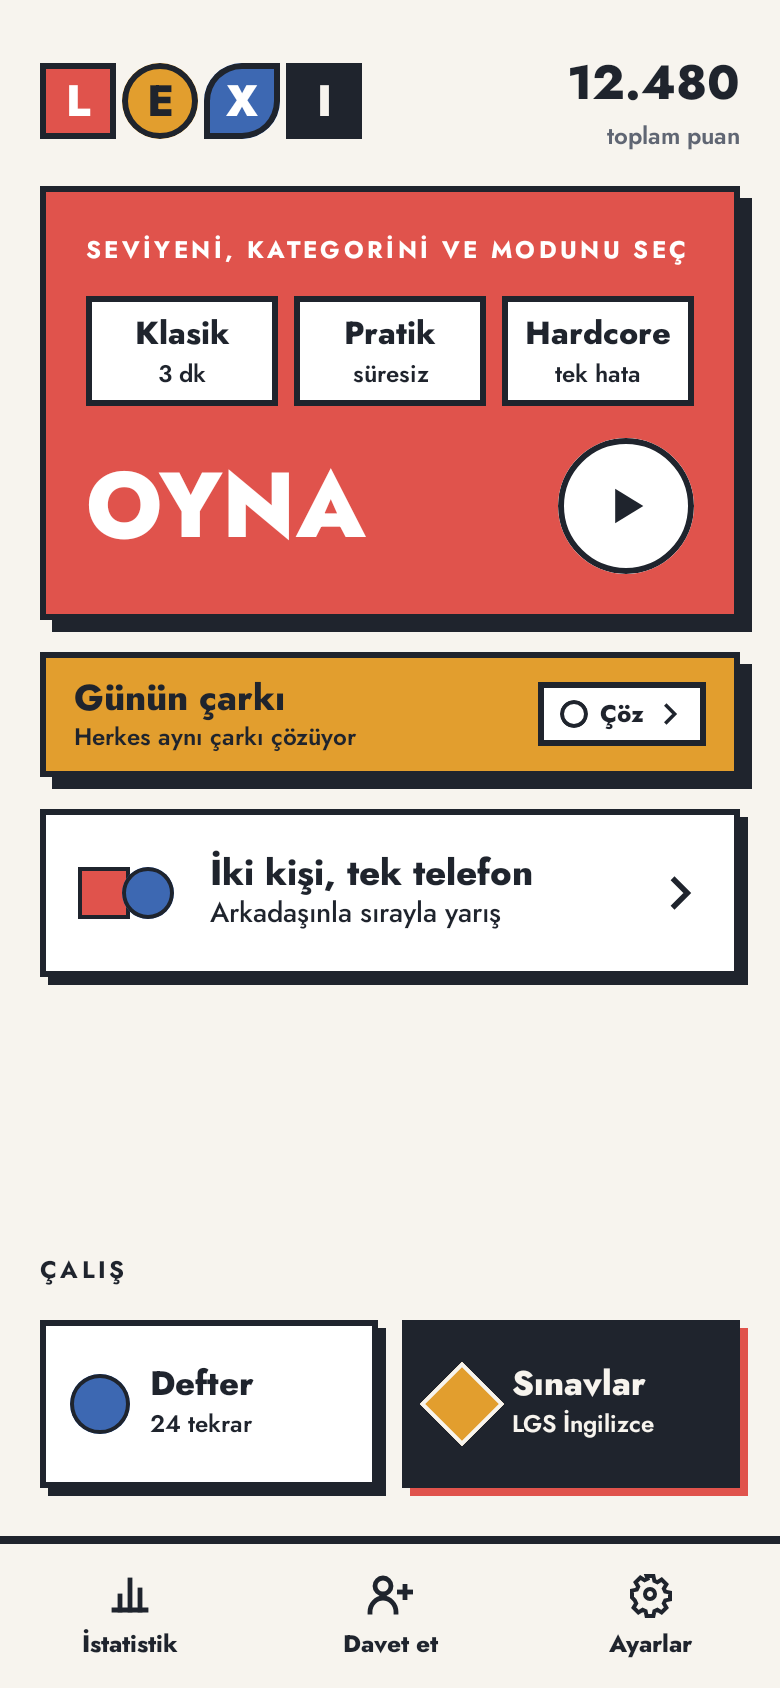
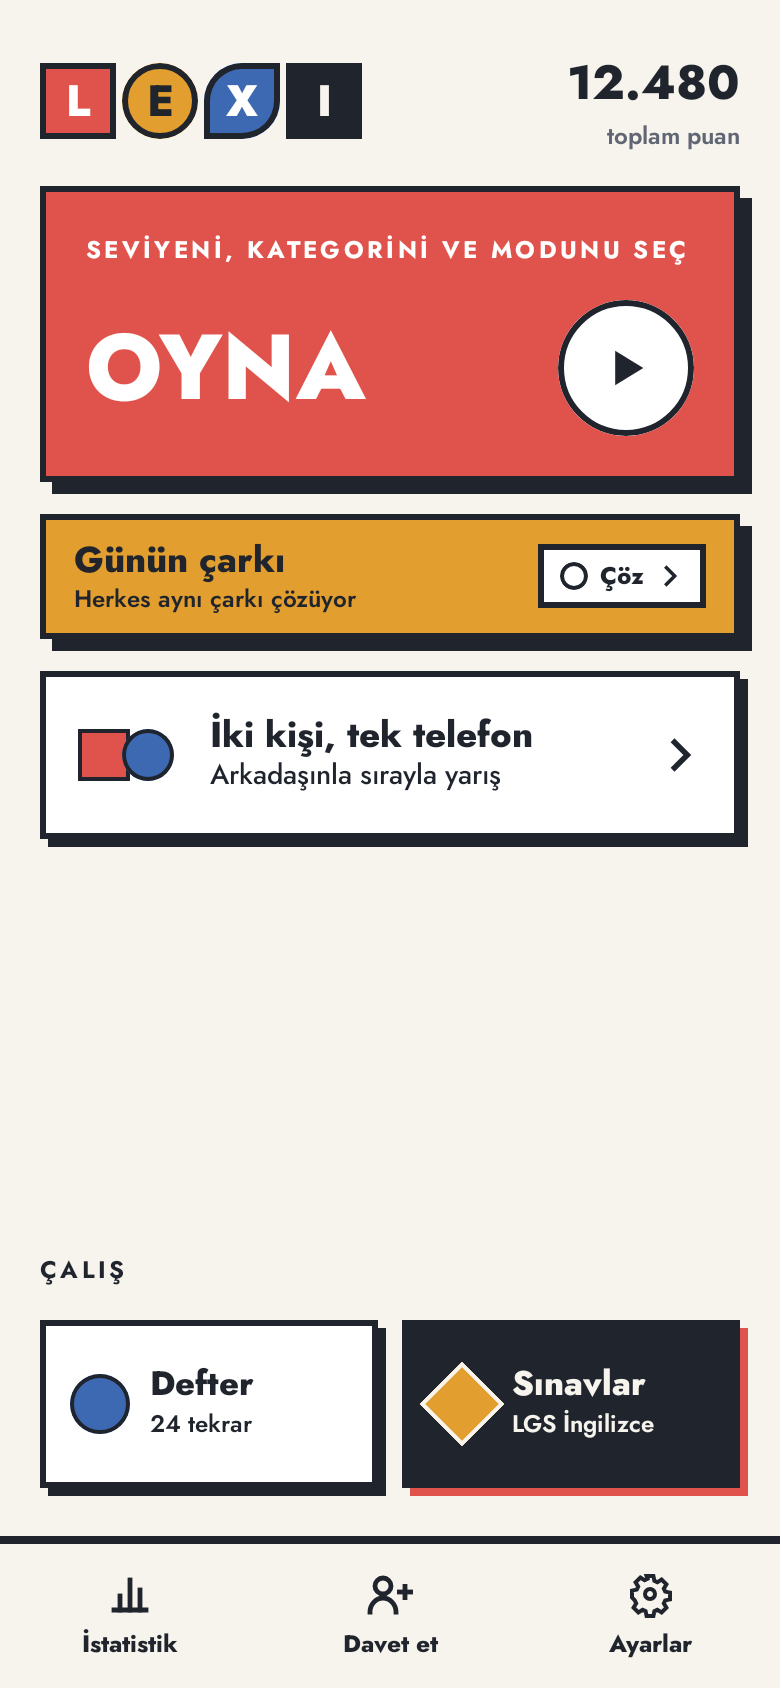
feat(home): drop the three mode boxes from the red play card
Owner-approved design change: the card keeps the label and "OYNA" with the
play icon; mode and time are chosen in the dialog after a category tap.
Removes PlayCardMode, the home_mode_* strings (TR + EN), the mode sentence of
the card's content description and HomeUiState.classicTimeLimitSeconds, which
only fed the removed boxes. OYNA still opens the category picker.

Home and FlowComponents goldens change and are recorded on Linux CI.

Changed region(s): [[0.0308, 0.154, 0.9846, 0.5853]]

diff --git a/core/designsystem/src/commonMain/kotlin/dev/talhabayhan/lexi/core/designsystem/component/FlowComponents.kt b/core/designsystem/src/commonMain/kotlin/dev/talhabayhan/lexi/core/designsystem/component/FlowComponents.kt
@@ -83,10 +83,7 @@ public object FlowDefaults {
 
     /** Play card: padding 20, label → mode boxes 14, mode boxes → OYNA row 16, boxes 8 apart, play circle 68. */
     public val PlayCardPadding: Dp = 20.dp
-    internal val PlayCardLabelGap: Dp = 14.dp
     internal val PlayCardRowGap: Dp = 16.dp
-    internal val ModeBoxGap: Dp = 8.dp
-    internal val ModeBoxPadding: PaddingValues = PaddingValues(horizontal = 6.dp, vertical = 4.dp)
     public val PlayCircleSize: Dp = 68.dp
     internal val PlayIconSize: Dp = 26.dp
 
@@ -178,19 +175,15 @@ public fun FitLine(text: String, style: TextStyle, color: Color, modifier: Modif
     )
 }
 
-/** One informational mode box of the play card: "Klasik" over "3 dk". */
-@Immutable
-public data class PlayCardMode(val title: String, val caption: String)
-
 /**
- * Home's play card (`home_v5.png`): red, 3dp ink frame, s6. Top [label] ("SEVİYENİ, KATEGORİNİ VE MODUNU SEÇ"), the
- * three informational [modes] (not tappable), then [playLabel] ("OYNA") left and a round play icon right. The whole
- * card is one button, read as [contentDescription].
+ * Home's play card (`home_v5.png`, simplified by the owner in S8: the three mode boxes are gone, mode and time are
+ * chosen in the dialog after a category tap): red, 3dp ink frame, s6. Top [label] ("SEVİYENİ, KATEGORİNİ VE MODUNU
+ * SEÇ"), then [playLabel] ("OYNA") left and a round play icon right. The whole card is one button, read as
+ * [contentDescription].
  */
 @Composable
 public fun PlayCard(
     label: String,
-    modes: List<PlayCardMode>,
     playLabel: String,
     contentDescription: String,
     onClick: () -> Unit,
@@ -205,43 +198,16 @@ public fun PlayCard(
     ) {
         // All of the card's text is control text (also spoken through [contentDescription]): capped, so OYNA stays on
         // the first screen of a 320 × 568 phone at 200 % font size.
-        WithCappedFontScale(FlowDefaults.CONTROL_FONT_SCALE_CAP) { PlayCardContent(label, modes, playLabel) }
+        WithCappedFontScale(FlowDefaults.CONTROL_FONT_SCALE_CAP) { PlayCardContent(label, playLabel) }
     }
 }
 
 @Composable
-private fun PlayCardContent(label: String, modes: List<PlayCardMode>, playLabel: String) {
+private fun PlayCardContent(label: String, playLabel: String) {
     val colors = LexiTheme.colors
     val typography = LexiTheme.typography
     Column(Modifier.fillMaxWidth().clearAndSetSemantics {}.padding(FlowDefaults.PlayCardPadding)) {
         WordSafeText(label, typography.label12, colors.white)
-        Row(
-            modifier = Modifier.fillMaxWidth().padding(top = FlowDefaults.PlayCardLabelGap)
-                .height(IntrinsicSize.Min),
-            horizontalArrangement = Arrangement.spacedBy(FlowDefaults.ModeBoxGap),
-        ) {
-            modes.forEach { mode ->
-                Column(
-                    modifier = Modifier
-                        .weight(1f)
-                        .fillMaxHeight()
-                        .lexiSurface(colors.white, BorderStroke(LexiTheme.borders.regular, colors.ink))
-                        .padding(FlowDefaults.ModeBoxPadding),
-                    horizontalAlignment = Alignment.CenterHorizontally,
-                    verticalArrangement = Arrangement.Center,
-                ) {
-                    FitLine(mode.title, typography.bodyStrong16, colors.ink)
-                    // A caption too wide for its box ("one mistake" on a 320dp phone) wraps between its words.
-                    WordSafeText(
-                        mode.caption,
-                        typography.caption12SemiBold,
-                        colors.ink,
-                        maxLines = 2,
-                        textAlign = TextAlign.Center,
-                    )
-                }
-            }
-        }
         Row(
             modifier = Modifier.fillMaxWidth().padding(top = FlowDefaults.PlayCardRowGap),
             verticalAlignment = Alignment.CenterVertically,
@@ -819,11 +785,6 @@ private fun FlowComponentsPreview() {
         ) {
             PlayCard(
                 label = "SEVİYENİ, KATEGORİNİ VE MODUNU SEÇ",
-                modes = listOf(
-                    PlayCardMode("Klasik", "3 dk"),
-                    PlayCardMode("Pratik", "süresiz"),
-                    PlayCardMode("Hardcore", "tek hata"),
-                ),
                 playLabel = "OYNA",
                 contentDescription = "Oyna",
                 onClick = {},

diff --git a/feature/home/src/commonMain/kotlin/dev/talhabayhan/lexi/feature/home/HomeScreen.kt b/feature/home/src/commonMain/kotlin/dev/talhabayhan/lexi/feature/home/HomeScreen.kt
@@ -63,7 +63,6 @@ import dev.talhabayhan.lexi.core.designsystem.component.FlowDefaults
 import dev.talhabayhan.lexi.core.designsystem.component.LexiLogo
 import dev.talhabayhan.lexi.core.designsystem.component.LexiLogoSize
 import dev.talhabayhan.lexi.core.designsystem.component.PlayCard
-import dev.talhabayhan.lexi.core.designsystem.component.PlayCardMode
 import dev.talhabayhan.lexi.core.designsystem.component.RuledBottomBar
 import dev.talhabayhan.lexi.core.designsystem.component.SlidingToast
 import dev.talhabayhan.lexi.core.designsystem.component.StudyTile
@@ -93,12 +92,6 @@ import dev.talhabayhan.lexi.feature.home.generated.resources.home_invite_message
 import dev.talhabayhan.lexi.feature.home.generated.resources.home_joker_gift_combined
 import dev.talhabayhan.lexi.feature.home.generated.resources.home_joker_gift_daily
 import dev.talhabayhan.lexi.feature.home.generated.resources.home_joker_gift_streak
-import dev.talhabayhan.lexi.feature.home.generated.resources.home_mode_classic
-import dev.talhabayhan.lexi.feature.home.generated.resources.home_mode_classic_caption
-import dev.talhabayhan.lexi.feature.home.generated.resources.home_mode_hardcore
-import dev.talhabayhan.lexi.feature.home.generated.resources.home_mode_hardcore_caption
-import dev.talhabayhan.lexi.feature.home.generated.resources.home_mode_practice
-import dev.talhabayhan.lexi.feature.home.generated.resources.home_mode_practice_caption
 import dev.talhabayhan.lexi.feature.home.generated.resources.home_notice_dismiss
 import dev.talhabayhan.lexi.feature.home.generated.resources.home_play
 import dev.talhabayhan.lexi.feature.home.generated.resources.home_play_description
@@ -170,22 +163,8 @@ internal fun HomeScreen(
                     Header(state.totalScore)
                     PlayCard(
                         label = stringResource(Res.string.home_play_label),
-                        modes = listOf(
-                            PlayCardMode(
-                                stringResource(Res.string.home_mode_classic),
-                                stringResource(Res.string.home_mode_classic_caption, state.classicMinutes),
-                            ),
-                            PlayCardMode(
-                                stringResource(Res.string.home_mode_practice),
-                                stringResource(Res.string.home_mode_practice_caption),
-                            ),
-                            PlayCardMode(
-                                stringResource(Res.string.home_mode_hardcore),
-                                stringResource(Res.string.home_mode_hardcore_caption),
-                            ),
-                        ),
                         playLabel = stringResource(Res.string.home_play),
-                        contentDescription = stringResource(Res.string.home_play_description, state.classicMinutes),
+                        contentDescription = stringResource(Res.string.home_play_description),
                         onClick = { onIntent(HomeIntent.Play) },
                     )
                     DailyCard(state.dailyState, onOpen = { onIntent(HomeIntent.OpenDaily) })
@@ -257,10 +236,6 @@ internal fun HomeScreen(
         }
     }
 }
-
-private val HomeUiState.classicMinutes: Int get() = classicTimeLimitSeconds / SECONDS_PER_MINUTE
-
-private const val SECONDS_PER_MINUTE = 60
 
 /**
  * Logo left, total points right ("12.480" over "toplam puan"); the points are one node read with their label. The

diff --git a/feature/home/src/commonMain/kotlin/dev/talhabayhan/lexi/feature/home/HomeContract.kt b/feature/home/src/commonMain/kotlin/dev/talhabayhan/lexi/feature/home/HomeContract.kt
@@ -2,7 +2,6 @@ package dev.talhabayhan.lexi.feature.home
 
 import androidx.compose.runtime.Immutable
 import dev.talhabayhan.lexi.core.domain.model.Level
-import dev.talhabayhan.lexi.core.domain.settings.Settings
 
 /**
  * State of the daily wheel card on the home screen.
@@ -51,8 +50,6 @@ internal data class HomeUiState(
     val examPackNames: List<String> = emptyList(),
     /** The level "Çarkını seç" opens on: the onboarding's choice, then the last level chip picked. */
     val selectedLevel: Level = Level.A1,
-    /** The time last chosen for Classic / Hardcore, for the play card's "3 dk". */
-    val classicTimeLimitSeconds: Int = Settings.DEFAULT_CLASSIC_TIME_LIMIT_SECONDS,
 )
 
 internal sealed interface HomeIntent {

diff --git a/feature/home/src/commonMain/kotlin/dev/talhabayhan/lexi/feature/home/HomeViewModel.kt b/feature/home/src/commonMain/kotlin/dev/talhabayhan/lexi/feature/home/HomeViewModel.kt
@@ -90,12 +90,10 @@ internal class HomeViewModel(
 
         viewModelScope.launch {
             settings.settings
-                .map { it.selectedLevel to it.classicTimeLimitSeconds }
+                .map { it.selectedLevel }
                 .distinctUntilChanged()
                 .catch { }
-                .collect { (level, seconds) ->
-                    mutableState.update { it.copy(selectedLevel = level, classicTimeLimitSeconds = seconds) }
-                }
+                .collect { level -> mutableState.update { it.copy(selectedLevel = level) } }
         }
 
         viewModelScope.launch {

diff --git a/feature/home/src/commonTest/kotlin/dev/talhabayhan/lexi/feature/home/HomeViewModelTest.kt b/feature/home/src/commonTest/kotlin/dev/talhabayhan/lexi/feature/home/HomeViewModelTest.kt
@@ -220,13 +220,12 @@ class HomeViewModelTest {
     }
 
     @Test
-    fun `nothing played yet shows real zeros - A1 and 3 min`() = runHomeTest {
+    fun `nothing played yet shows real zeros and level A1`() = runHomeTest {
         viewModel().state.test {
             val state = expectMostRecentItem()
             assertEquals(0L, state.totalScore)
             assertEquals(0, state.dueReviews)
             assertEquals(Level.A1, state.selectedLevel)
-            assertEquals(180, state.classicTimeLimitSeconds)
             assertEquals(DailyCardState.Available, state.dailyState)
         }
     }

diff --git a/core/designsystem/src/androidHostTest/kotlin/dev/talhabayhan/lexi/core/designsystem/component/FlowComponentsScreenshotTest.kt b/core/designsystem/src/androidHostTest/kotlin/dev/talhabayhan/lexi/core/designsystem/component/FlowComponentsScreenshotTest.kt
@@ -48,11 +48,6 @@ class FlowComponentsScreenshotTest {
             ) {
                 PlayCard(
                     label = "SEVİYENİ, KATEGORİNİ VE MODUNU SEÇ",
-                    modes = listOf(
-                        PlayCardMode("Klasik", "3 dk"),
-                        PlayCardMode("Pratik", "süresiz"),
-                        PlayCardMode("Hardcore", "tek hata"),
-                    ),
                     playLabel = "OYNA",
                     contentDescription = "Oyna",
                     onClick = {},

diff --git a/docs/design/screen-map.md b/docs/design/screen-map.md
@@ -6,7 +6,7 @@
 | `01-onboarding` | Onboarding / seviye testi (step 2 of 3) | `OnboardingRoute` / `OnboardingScreen` (steps 1–3, level choice = this design with the `COPY.md` §4 title/body and no step indicators, level test intro); level test run `LevelTestRoute` (feature:game); result `LevelTestResultRoute(level)` / `LevelTestResultScreen` (feature:onboarding `result`) | feature:onboarding | M6 |
 | `02-home` | Ana menü | `HomeRoute` / `HomeScreen` | feature:home | M4 (done; tiles of M5-M7 are inert) |
 | `02c-home-v2` | Ana menü v2 — level, mode and category on Home (owner-approved, **not implemented**; supersedes `02-home`'s tile grid, `03-level-select`'s picker and the practice tile) | `HomeRoute` / `HomeScreen` (OYNA starts `GameRoute(level, mode, category?)` directly; `LevelSelectRoute` callers: `home-v2-notes.md` §4) | feature:home (+ shared level/category code) | not scheduled — **needs design**: footer key tiles + 4 icons (book, bar chart, graduation cap, two people), due-reviews badge, level chips row, category sheet and its hidden/empty state; rules, DataStore keys, tiers, a11y and the fill-blank open item: `home-v2-notes.md`; source `source/02c-home-v2.dc.html` |
-| `drafts/video-flow/home_v5.png` (1st screen) | Video flow (branch `redesign/video-flow`, phase 2 built) — Ana ekran: logo + toplam puan, red play card with three info mode boxes, Günün çarkı (Home v2 card), İki kişi tek telefon, ÇALIŞ (Defter, Sınavlar), thin ruled bottom bar (İstatistik / Davet et / Ayarlar); no streak, no entrance animation | `HomeRoute` / `HomeScreen` (play card → `CategoryPickerRoute(level)`) | feature:home | built on the branch — `video-flow-notes.md` §1; **needs design**: invite icon |
+| `drafts/video-flow/home_v5.png` (1st screen) | Video flow (branch `redesign/video-flow`, phase 2 built) — Ana ekran: logo + toplam puan, red play card (label + OYNA, the three mode boxes were removed in S8 by owner decision), Günün çarkı (Home v2 card), İki kişi tek telefon, ÇALIŞ (Defter, Sınavlar), thin ruled bottom bar (İstatistik / Davet et / Ayarlar); no streak, no entrance animation | `HomeRoute` / `HomeScreen` (play card → `CategoryPickerRoute(level)`) | feature:home | built on the branch — `video-flow-notes.md` §1; **needs design**: invite icon |
 | `drafts/video-flow/home_v5.png` (2nd), `cats_v3.png` | Video flow — "Çarkını seç": level chips, Karışık + all categories of the level with Canvas-path illustrations (`art_v3.png`), exam packs (LGS open, others YAKINDA), "Başa dön"; replaces `03-level-select` + `07-categories` | `CategoryPickerRoute(level)` / `CategoryPickerScreen` | feature:levels (`picker`) | built on the branch (phase 2) — `video-flow-notes.md` §2; **needs design**: final illustrations, locked exam-pack art (IELTS placeholder) |
 | `drafts/video-flow/home_v5.png` (3rd), `cats_v3.png` (3rd, 4th) | Video flow — mode and duration dialog (Klasik / Pratik / Hardcore + 3:00 / 5:00 / 7:00, OYNA); phase 2: fade + scale placeholder, phase 3: card flip and OYNA → letter morph into `GameRoute` | `PlayDialog` inside `CategoryPickerRoute` (→ `GameRoute(level, mode, category, time)`); `MorphOverlayHost` above `LexiNavHost` in phase 3 | feature:levels, core:designsystem (motion), shared | dialog built (phase 2); flip + morph phase 3 — `video-flow-notes.md` §3, §5; motion `motion.md` #13–#18 |
 | `03-level-select` | Seviye ve mod seçimi — **removed on branch `redesign/video-flow`** (replaced by "Çarkını seç"); still built on `main` | `LevelSelectRoute(mode)` / `LevelSelectScreen` (main only) | feature:levels | M4 (done on main) |
